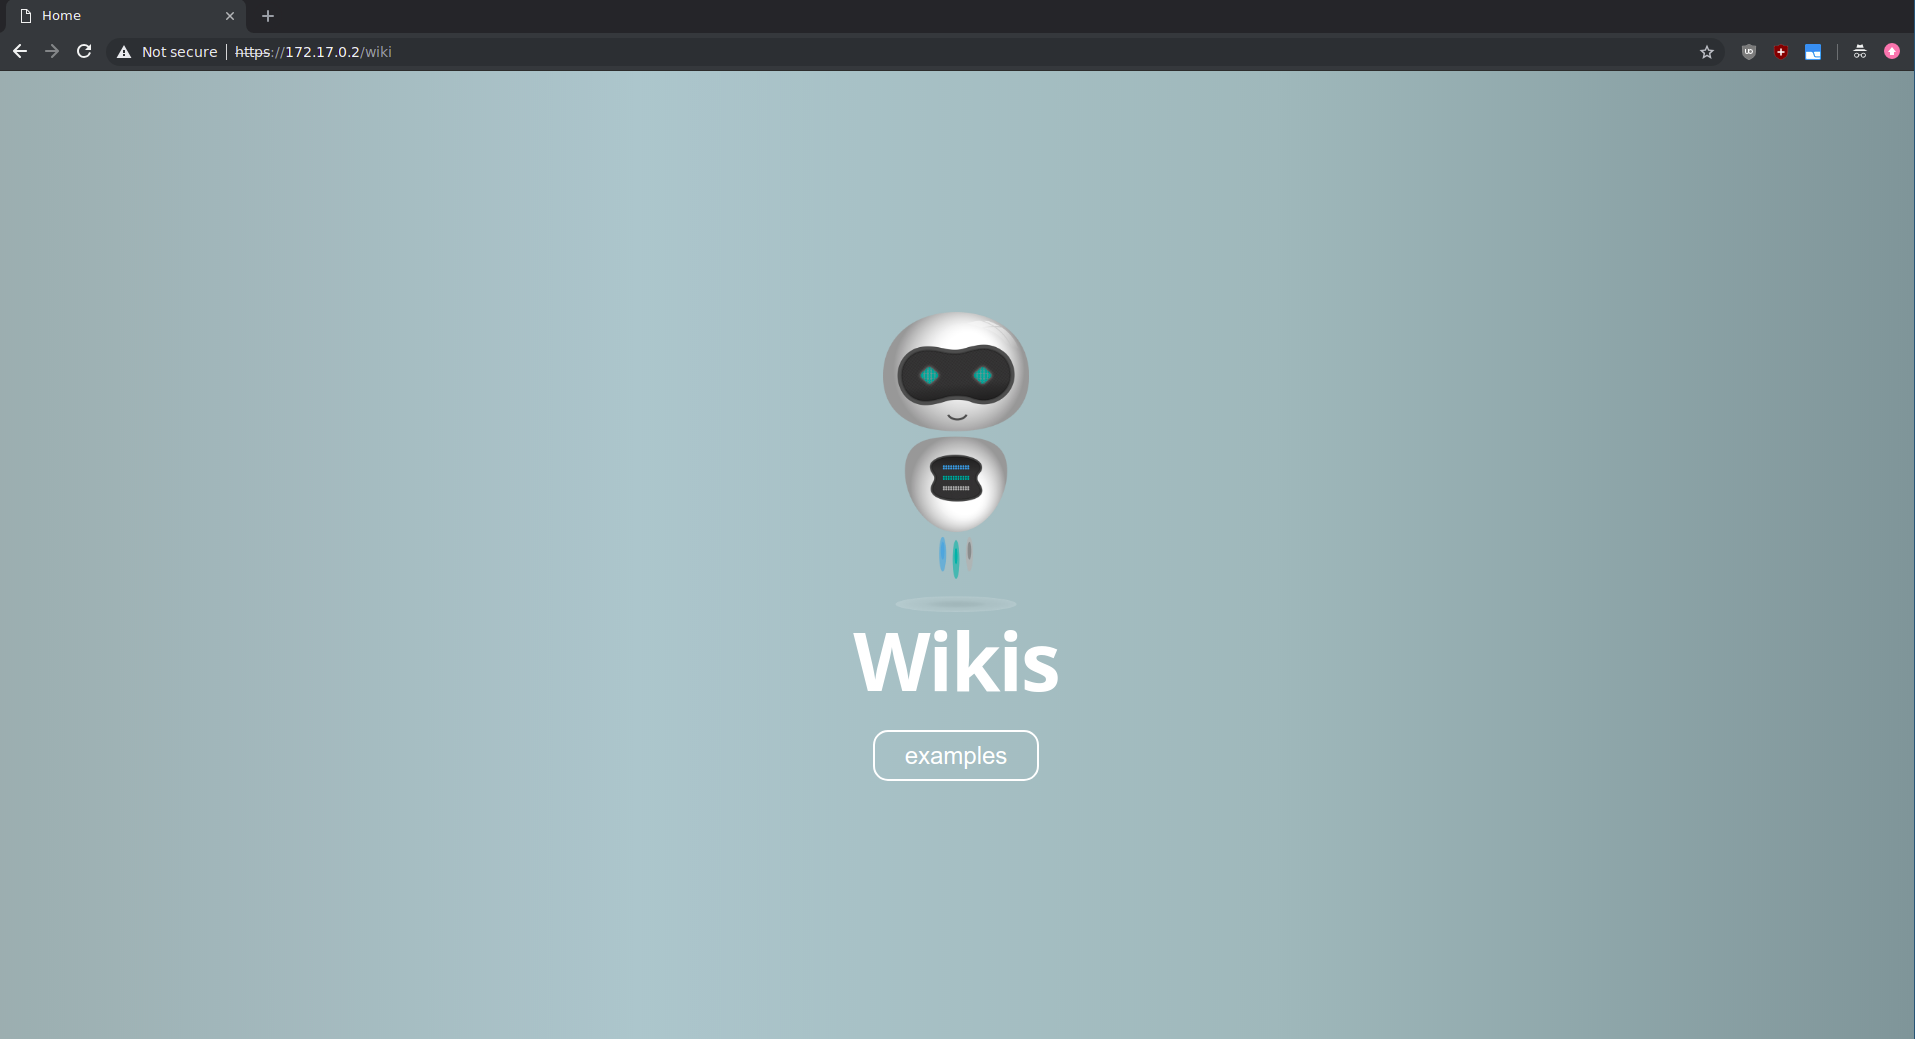
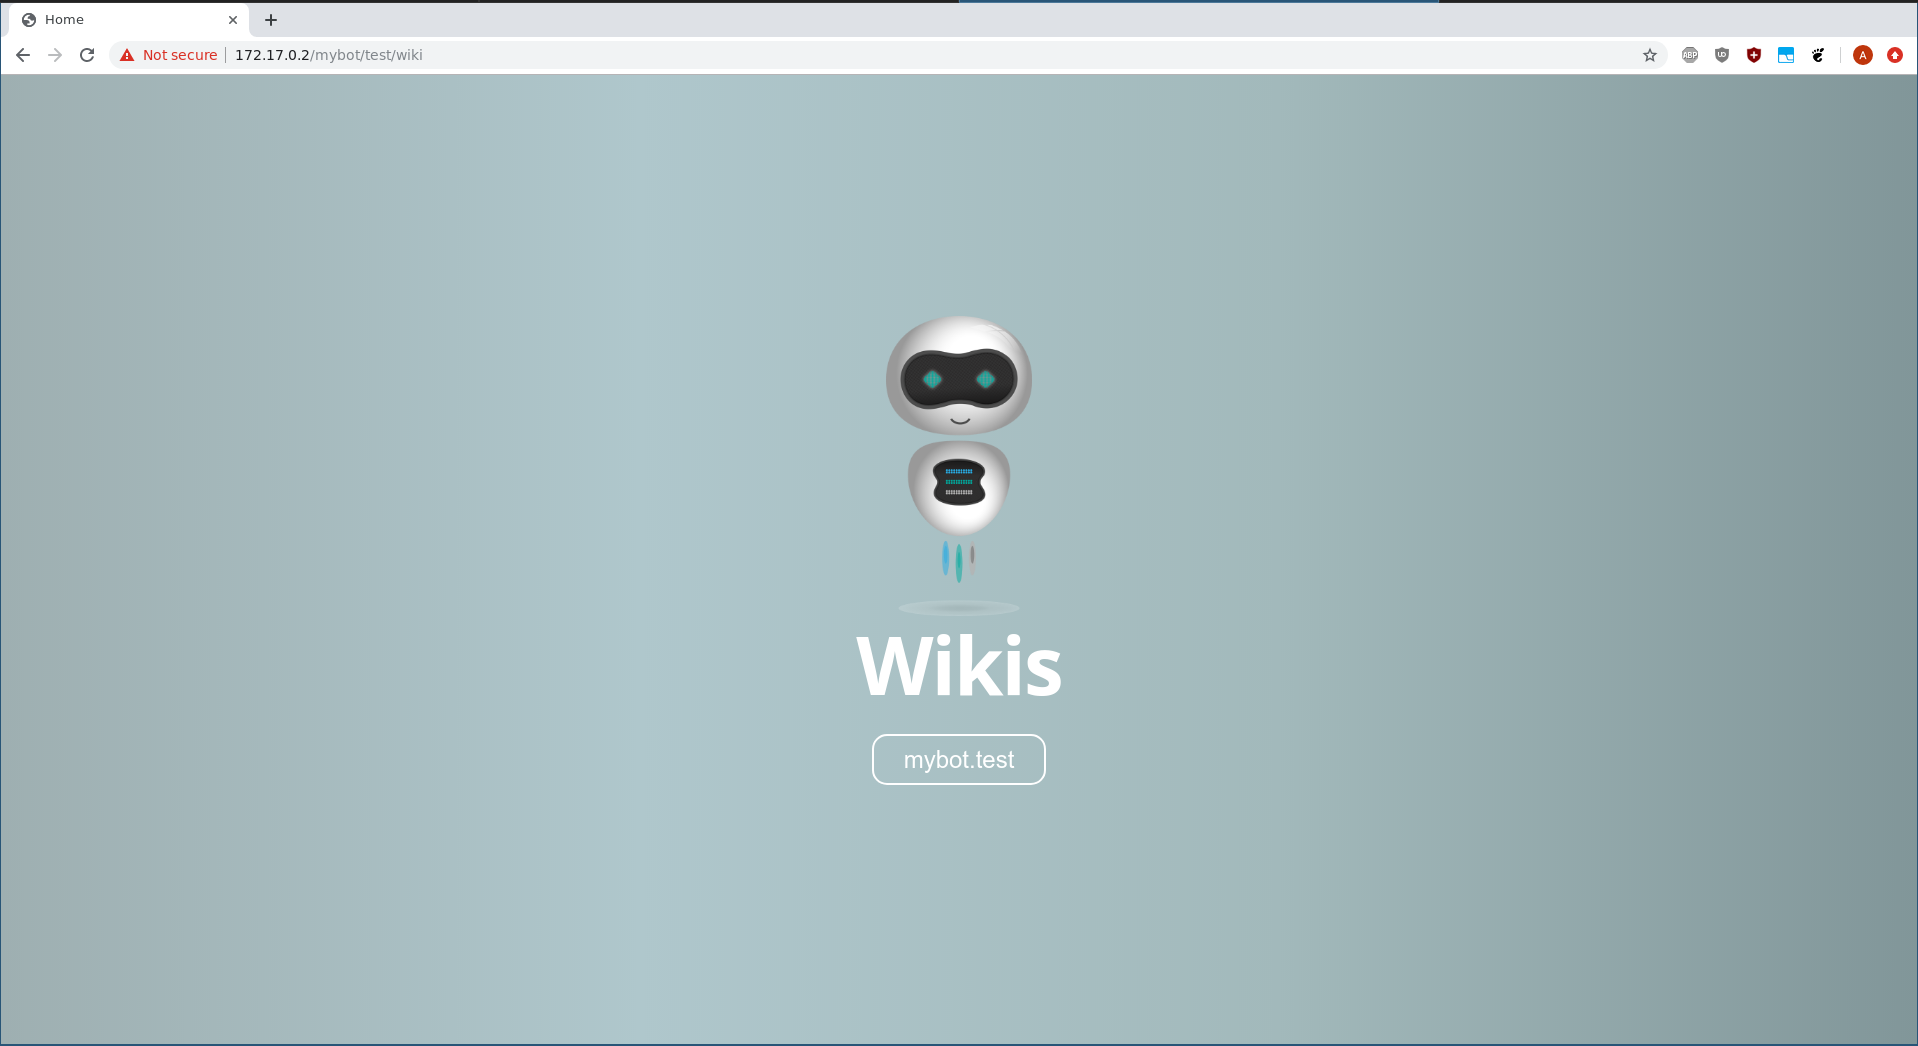
update wiki docs to use packages instead of markdowndocs

diff --git a/docs/wikis/tech/README.md b/docs/wikis/tech/README.md
@@ -1,72 +1,130 @@
 # Docsites:
 
-Docsites are a collection of markdown documents, images and data files that can be generated using jumpscale `markdowndocs` tool.
+Docsites are a collection of markdown documents, images and data files that can be generated using jumpscale `3git` tool.
 
 The tool pre-process the given markdown directory (it adds some extension to markdown like custom link format and macros), also, it verifies and follows all the links and download it if needed, so you end up having a static directory that can be served directly.
 
-The output is written to bcdb filesystem under `/docsites`, it's also indexed in `sonic` server, so search is available by default.
+Content:
+* [Creating and adding a new package](#creating-and-adding-a-new-package)
+* [Reloading the wiki of any package](#reloading-the-wiki-of-any-package)
+* [Markdown extensions](#markdown-extensions)
+* [Writing your own macro](#writing-you-own-macro)
+* [Setting up gdrive and service account](#setting-up-gdrive-and-service-account)
 
-### Markdown extensions:
+## Loading wikis
+
+Loading wiki is now done by default in any threebot package, you just need to create a new package and add your content inside `wiki` directory of this package. When this package is added to threebot server via `package_manager` for example, it will load the content and process it automatically using `3git` tool.
+
+
+First make sure you have a threebot server running using:
+
+```
+3BOTDEVEL:3bot:~: kosmos -p 'j.servers.threebot.local_start_default()'
+```
+
+## Creating and adding a new package
+
+You can create a new package with the default directory structure using:
+
+```
+3BOTDEVEL:3bot:~: jsx package-new --name test --dest .
+```
+
+This will result in the following tree:
+
+```
+3BOTDEVEL:3bot:~: tree test
+test
+├── actors
+│   └── test.py
+├── chatflows
+│   └── test.py
+├── models
+├── package.py
+├── package.toml
+├── TestFactory.py
+└── wiki
+
+4 directories, 5 files
+```
+
+Before adding content, make sure this package directory is a git repository with at least a single commit, because `3git` tool keep track of the changes using `git` and only process changed files every time, you simply do:
+
+```
+3BOTDEVEL:3bot:test: git init .
+Initialized empty Git repository in /root/test/.git/
+3BOTDEVEL:3bot:test: git add .
+3BOTDEVEL:3bot:test: git commit -m "init"
+```
+
+Then, adding for example `_sidebar.md`, `README.md` and `test.md` documents with any content:
+
+```
+3BOTDEVEL:3bot:~: tree test/wiki/
+test/wiki/
+├── README.md
+├── _sidebar.md
+└── test.md
+
+0 directories, 3 files
+```
+
+After filling `wiki` directory with content, you can add the package now via threebot package manager:
+
+```
+3BOTDEVEL:3bot:~: kosmos -p
+JSX> cl = j.clients.gedis.get("pm", port=8901, package_name="zerobot.packagemanager")
+LOAD CONFIG BCDB
+JSX> cl.actors.package_manager.package_add(path="/root/test")
+b'OK'
+```
+
+Now to navigate to the wiki in the browser, need to know the package name and parent threebot name (they can be specified inside `package.toml`)
+
+```
+3BOTDEVEL:3bot:~: cat test/package.toml
+
+[source]
+name = "test"
+description = "mypackage"
+threebot = "mybot"
+version = "1.0.0"
+
+
+[[bcdbs]]
+namespace = "mybot"
+type = "zdb"
+instance = "default"
+```
+
+Opening the browser to `http://<threebot or container address>/mybot/test/wiki` and you will find loaded wikis (may take some time to load).
+
+![screenshot.png](images/wikis_home.png)
+
+Inside the wiki:
+
+![screenshot.png](images/wiki_sample.png)
+
+
+## Reloading the wiki of any package
+
+To reload a wiki of a specific package, you just need to get an instance from this package (make sure it was added before).
+
+```
+JSX> p = j.tools.threebot_packages.get("mybot.test")
+LOAD CONFIG BCDB
+JSX> p.load_wiki(reset=True)
+** START DATA PROCESSOR FOR :myjobs
+```
+
+## Markdown extensions:
 
 * [Custom link format](../links.md)
 * [Macros](../macros/)
 * [Inline HTML](../html.md)
 
-## Loading wikis
-
-First make sure you have a threebot server running ` kosmos -p 'j.servers.threebot.local_start_default()'`
-
-then load your wikis in one of two ways using `jsx wiki_load` or the markdowndocs tool
-
-
-### jsx wiki_load
-
-the following command can be used to load a wiki using its url
-
-```
-jsx wiki-load -u https://github.com/threefoldtech/jumpscaleX_threebot/tree/development/docs/wikis/examples/docs -n examples -f
-```
-
-- `-u` or `--url` : docsite url
-- `-n` or `--name`: wiki name to be used in the url `/wiki/wiki_name`
-- `-f` to load in foreground if not it'll use myjobs in the background
-
-
-Opening the browser to `/wiki` and you will find loaded wikis (may take some time to load).
-
-![screenshot.png](images/wikis_home.png)
-
-
-### Markdowndocs loader
-
-Given a markdown documents directory (a link to repository), the tool will pull, pre-process and generate the docsite.
-You can find some markdown docs examples [here](../examples).
-
-Usage example:
-
-```python
-url = "https://github.com/threefoldtech/jumpscaleX_threebot/tree/development/docs/wikis/examples/docs"
-docsite = j.tools.markdowndocs.load(url, name="test_example")
-docsite.write()
-```
-
-This will pull the repo at the branch specified, then generate a docsite at `/docsites/test_example` in bcdb file system.
-
-Jumpscale job queue can be used too to load docsites in background, see [threefold wikis](https://github.com/threefoldtech/jumpscaleX_threebot/tree/development/ThreeBotPackages/threefold/threefold_wikis) package.
-
-> Note: the wiki package will be loaded by default.
-
-
-Then open your browser with 3bot/container hostname at `https:<hostname>/wiki/<your_docsite_name>`.
-
-## Reload wiki
-
-First make sure you have a threebot server running ` kosmos -p 'j.servers.threebot.local_start_default()'`
-
-using `jsx wiki-reload -n "your-wiki-name"` ex. foundation, testwikis .. this will look for the changes in the repo locally, if not will pull it from github and update the changes.
-
-
-
+## Writing you own macro
+[Macros](../macro) can extend markdown, we have different types of macros to do many operations, also, you can write your own macro as [described here](macro.md).
 
 ## Setting up gdrive and service account
 
@@ -74,6 +132,3 @@ Gdrive extension and `gslide/slideshow` macros require google service account cr
 
 * [Service account](service_account.md)
 * [GDrive](gdrive.md) serve your google documents, sheets and slides directly from wikis.
-
-## Writing you own macro
-[Macros](../macro) can extend markdown, we have different types of macros to do many operations, also, you can write your own macro as [described here](macro.md).

diff --git a/docs/wikis/README.md b/docs/wikis/README.md
@@ -4,7 +4,7 @@ Wikis are a collection of docsites, which are a collection of markdown documents
 
 A [simple docsite](examples/simple) can only consists of two files, `README.md` and `_sidebar.md`, the later is used for navigation in [docsify.js](https://docsify.js.org/#/more-pages?id=sidebar).
 
-We use [docsify.js](https://docsify.js.org/) to get an html web page directly from markdown, we also use our [markdowndocs](https://github.com/threefoldtech/jumpscaleX_libs/tree/development/JumpscaleLibs/tools/markdowndocs) tool to pre-process this docsites to support some markdown extenstions like [macros](macro/README.md).
+We use [docsify.js](https://docsify.js.org/) to get an html web page directly from markdown, we also use our [3git](https://github.com/threefoldtech/jumpscaleX_core/tree/development/JumpscaleCore/tools/threegit) tool to pre-process this docsites to support some markdown extenstions like [macros](macro/README.md).
 
 
 Some wikis can be found at [threefoldfoundation](https://github.com/threefoldfoundation) organization on github like:
@@ -22,4 +22,4 @@ Editing the content of this wikis are done collaboratively at the previous repos
 * [Inline HTML](html.md)
 
 ## Running your own wiki
-To run and setup your own wiki, more technical documentation about docsites and wikis can be found [here](tech/README.md).
+ًWikis are supported by default in threebot packages, to run and setup your own package with a wiki, more technical documentation can be found [here](tech/README.md).

diff --git a/docs/wikis/tech/macro.md b/docs/wikis/tech/macro.md
@@ -1,9 +1,9 @@
 # Macro
 A macro is a python function that get the document used in and any other parameters as input and return a new output.
 
-It should be placed into a python module with the same name, see [current macros](https://github.com/threefoldtech/jumpscaleX_libs/tree/development/JumpscaleLibs/tools/markdowndocs/macros).
+It should be placed into a python module with the same name, see [current macros](https://github.com/threefoldtech/jumpscaleX_core/tree/development/JumpscaleCore/tools/threegit/macros).
 
-All macros are loaded by default from this path `jumpscaleX_libs/JumpscaleLibs/tools/markdowndocs/macros`.
+All macros are loaded by default from this path `jumpscaleX_core/JumpscaleCore/tools/threegit/macros`.
 
 
 ## Example
